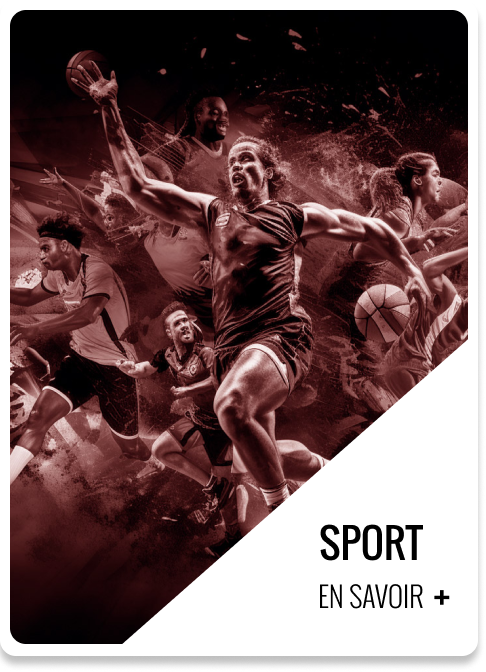
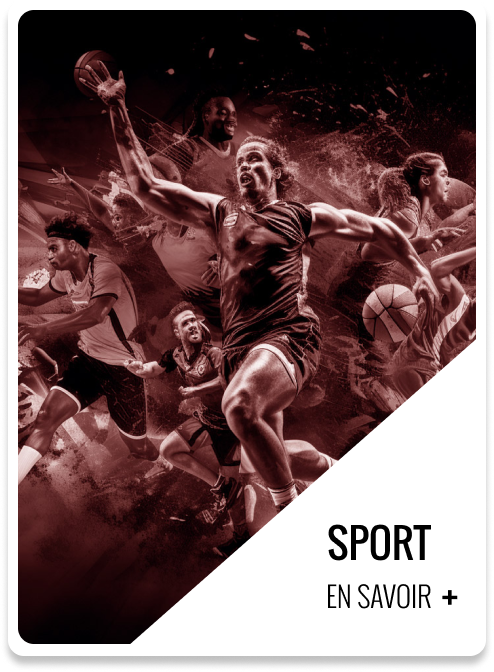
Cards hover states / css shadows  / png to jpg done

diff --git a/app/cards.js b/app/cards.js
@@ -3,7 +3,11 @@ import { useState } from 'react'
 
 export default function Cards() {
 
+  const [card1, setCard1] = useState('card1.jpg')
+  const [card2, setCard2] = useState('card2.jpg')
+  const [card3, setCard3] = useState('card3.jpg')
 
+  // const handleMouseOver = () = {}
 
   return (
 
@@ -22,15 +26,24 @@ export default function Cards() {
       </div>
 
       <div className='col-span-2'>
-        <Image className="w-auto cursor-pointer" src="/images/card1.png" width={239} height={328} alt="Card"/>
+        <Image className="w-auto cursor-pointer rounded-xl drop-shadow-lg" src={`/images/${card1}`} width={239} height={328} alt="Card" 
+        onMouseEnter={ () =>  setCard1('card1b.jpg')}
+        onMouseLeave={ () =>  setCard1('card1.jpg')}
+        />
       </div>
       
       <div className='col-span-2'>
-        <Image className="w-auto cursor-pointer" src="/images/card2.png" width={239} height={328} alt="Card"/>
+        <Image className="w-auto cursor-pointer rounded-xl drop-shadow-lg" src={`/images/${card2}`} width={239} height={328} alt="Card"
+         onMouseEnter={ () =>  setCard2('card2b.jpg')}
+         onMouseLeave={ () =>  setCard2('card2.jpg')}
+        />
       </div>
 
       <div className='col-span-2'>
-        <Image className="w-auto cursor-pointer" src="/images/card3.png" width={239} height={328} alt="Card"/>
+        <Image className="w-auto cursor-pointer rounded-xl drop-shadow-lg" src={`/images/${card3}`} width={239} height={328} alt="Card"
+         onMouseEnter={ () =>  setCard3('card3b.jpg')}
+         onMouseLeave={ () =>  setCard3('card3.jpg')}
+        />
       </div>
 
 

diff --git a/app/nav.js b/app/nav.js
@@ -74,7 +74,7 @@ export default function Nav() {
               </div>
 
              <div className='sm:visible flex flex-col items-center justify-center'>
-                <button class="oswald bg-transparent hover:bg-black text-white uppercase text-sm hover:text-white hover:border-black py-2 px-4 border border-white hover:border-transparent">
+                <button className="oswald bg-transparent hover:bg-black text-white uppercase text-sm hover:text-white hover:border-black py-2 px-4 border border-white hover:border-transparent">
                   <span>Contactez nous</span>
                 </button>
              </div>
